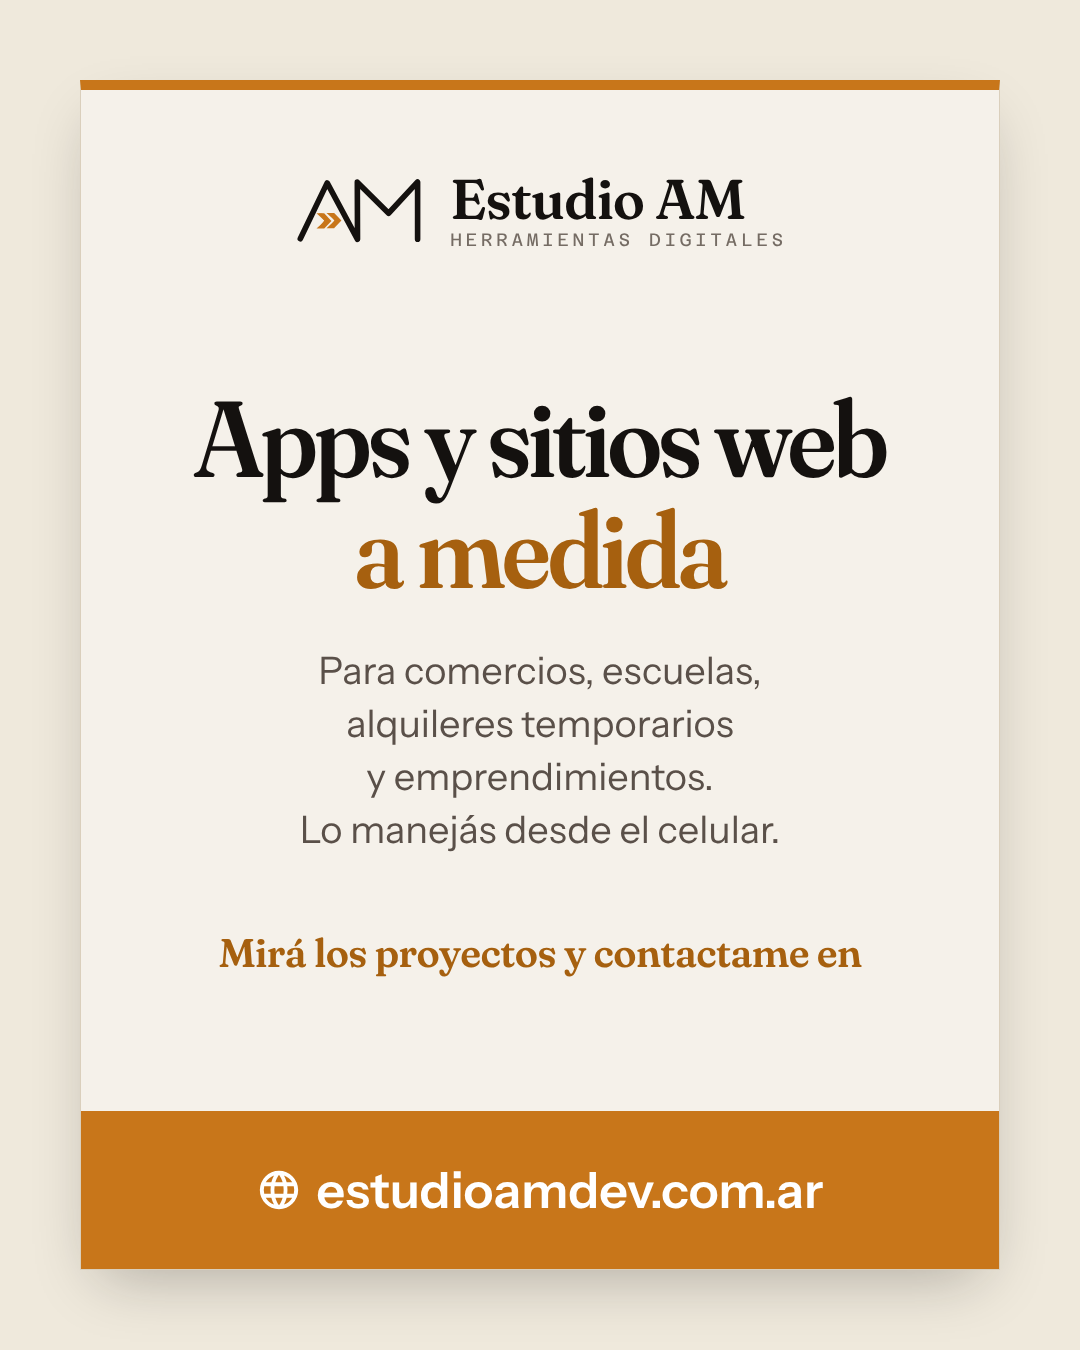
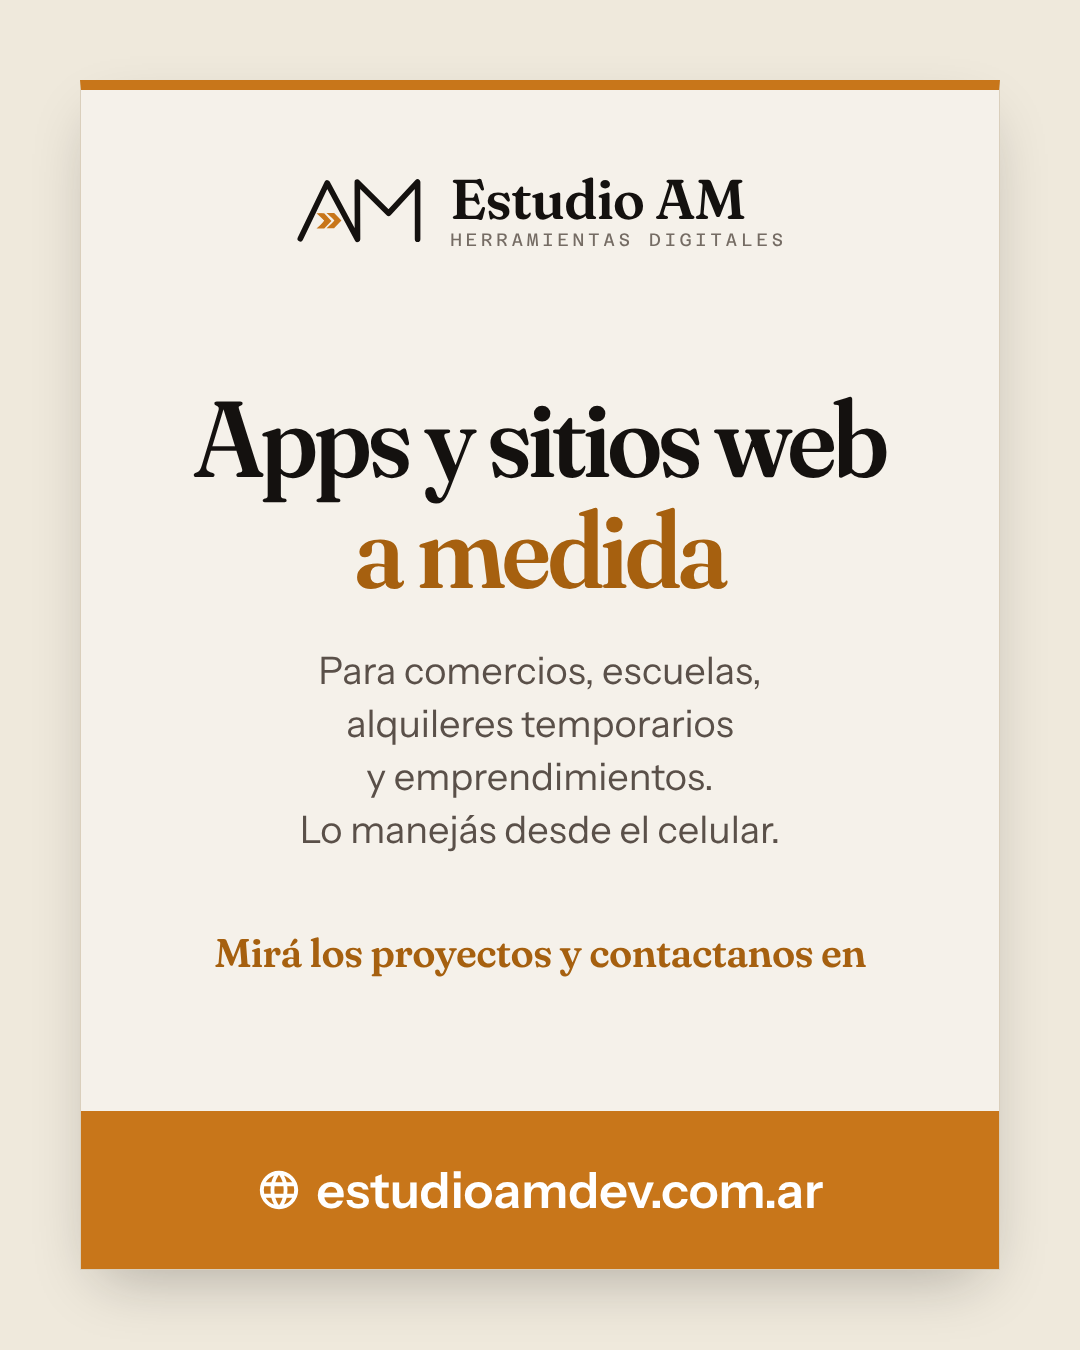
Instagram presentación: "contactanos" (voz de estudio)
Claude-Session: https://claude.ai/code/session_017mEGFx6s2jDAYU45fQz8RP

Changed region(s): [[0.1833, 0.6844, 0.7944, 0.7156]]

diff --git a/piezas/instagram-presentacion.html b/piezas/instagram-presentacion.html
@@ -23,7 +23,7 @@ h1 span{color:#A6600F}
   <div class="mid">
   <h1>Apps y sitios web<br><span>a medida</span></h1>
   <p class="sub">Para comercios, escuelas,<br>alquileres temporarios<br>y emprendimientos.<br>Lo manejás desde el celular.</p>
-  <p class="cta">Mirá los proyectos y contactame en</p>
+  <p class="cta">Mirá los proyectos y contactanos en</p>
   </div>
   <div class="info">
     <span><svg viewBox="0 0 24 24"><path d="M12 2a10 10 0 1 0 0 20 10 10 0 0 0 0-20zm6.9 6h-2.9a15.7 15.7 0 0 0-1.4-3.6A8 8 0 0 1 18.9 8zM12 4c.8 1.2 1.5 2.5 1.9 4h-3.8c.4-1.5 1.1-2.8 1.9-4zM4.3 14a8.2 8.2 0 0 1 0-4h3.4a16.5 16.5 0 0 0 0 4H4.3zm.8 2h2.9c.3 1.3.8 2.5 1.4 3.6A8 8 0 0 1 5.1 16zM8 8H5.1a8 8 0 0 1 4.3-3.6C8.8 5.5 8.3 6.7 8 8zm4 12c-.8-1.2-1.5-2.5-1.9-4h3.8c-.4 1.5-1.1 2.8-1.9 4zm2.3-6H9.7a14.7 14.7 0 0 1 0-4h4.6a14.7 14.7 0 0 1 0 4zm.3 5.6c.6-1.1 1.1-2.3 1.4-3.6h2.9a8 8 0 0 1-4.3 3.6zm1.7-5.6a16.5 16.5 0 0 0 0-4h3.4a8.2 8.2 0 0 1 0 4h-3.4z"/></svg>estudioamdev.com.ar</span></div>
